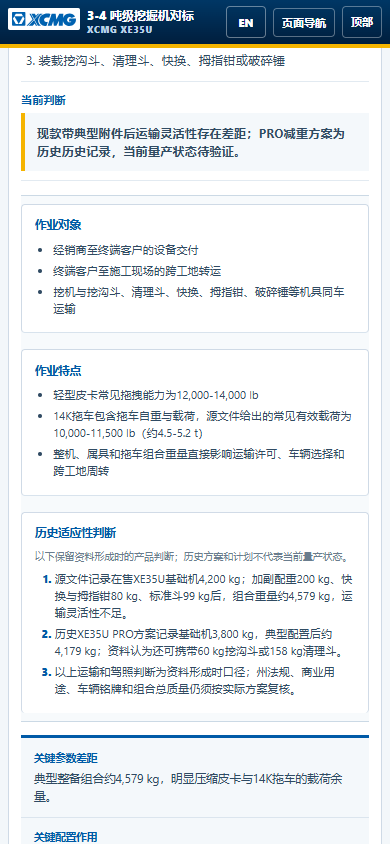
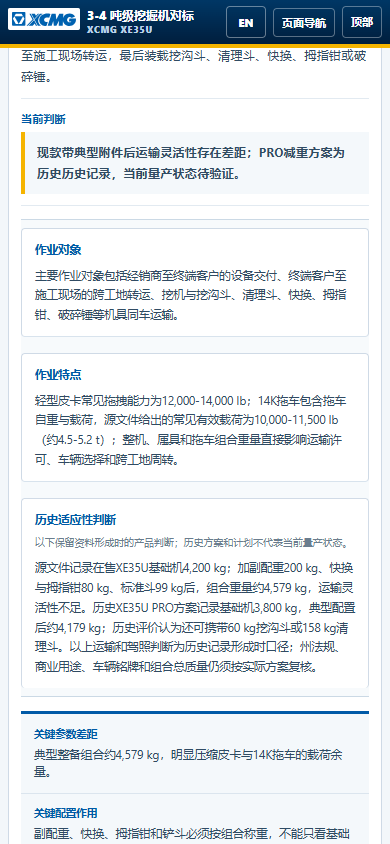
Improve scenario narrative readability

Changed region(s): [[0.0615, 0.4313, 0.9538, 1.0], [0.0308, 0.0616, 0.9538, 0.4005], [0.9231, 0.2464, 0.9538, 0.2773]]

diff --git a/ppt-integration-demo/assets/integrated.js b/ppt-integration-demo/assets/integrated.js
@@ -298,6 +298,47 @@
     return output;
   }
 
+  function trimSentence(value) {
+    return String(value || '').trim().replace(/[。；，、.!?;,:\s]+$/u, '');
+  }
+
+  function statementFromItems(items, separator) {
+    const values = (items || []).map((item) => trimSentence(item)).filter(Boolean);
+    if (!values.length) return '';
+    const joiner = separator || (language === 'en' ? '; ' : '；');
+    return `${values.join(joiner)}${language === 'en' ? '.' : '。'}`;
+  }
+
+  function workflowFromItems(items) {
+    const values = (items || []).map((item) => trimSentence(item)).filter(Boolean);
+    if (!values.length) return '';
+    if (values.length === 1) return `${values[0]}${language === 'en' ? '.' : '。'}`;
+    const first = values[0];
+    const last = values[values.length - 1];
+    const middle = values.slice(1, -1);
+    if (language === 'en') {
+      const middleText = middle.length ? `; then ${middle.join('; ')}` : '';
+      return `First, ${first}${middleText}; finally, ${last}.`;
+    }
+    const middleText = middle.length ? `，随后依次完成${middle.join('、')}` : '';
+    return `作业通常先进行${first}${middleText}，最后${last}。`;
+  }
+
+  function workObjectNarrative(items) {
+    const values = (items || []).map((item) => trimSentence(item)).filter(Boolean);
+    if (!values.length) return '';
+    if (language === 'en') return `The primary work scope covers ${values.map((item) => item.charAt(0).toLowerCase() + item.slice(1)).join(', ')}.`;
+    return `主要作业对象包括${values.join('、')}。`;
+  }
+
+  function historicalNarrative(items) {
+    return (items || []).map((item) => {
+      const value = narrative(item).trim();
+      if (!value) return '';
+      return /[。.!?]$/u.test(value) ? value : `${value}${language === 'en' ? '.' : '。'}`;
+    }).filter(Boolean).join(language === 'en' ? ' ' : '');
+  }
+
   function escapeHtml(value) {
     return String(value == null ? '' : value)
       .replace(/&/g, '&amp;').replace(/</g, '&lt;').replace(/>/g, '&gt;')
@@ -675,16 +716,16 @@
           <div class="scenarioBody">
             <dl class="scenarioFacts">
               <div class="scenarioFact"><dt>${escapeHtml(copy.customer)}</dt><dd>${escapeHtml(text(record.customer))}</dd></div>
-              <div class="scenarioFact"><dt>${escapeHtml(copy.needs)}</dt><dd><ul>${needs.map((item) => `<li>${escapeHtml(item)}</li>`).join('')}</ul></dd></div>
-              <div class="scenarioFact"><dt>${escapeHtml(copy.steps)}</dt><dd><ol>${steps.map((item) => `<li>${escapeHtml(item)}</li>`).join('')}</ol></dd></div>
+              <div class="scenarioFact"><dt>${escapeHtml(copy.needs)}</dt><dd><p class="scenarioNarrative">${escapeHtml(statementFromItems(needs))}</p></dd></div>
+              <div class="scenarioFact"><dt>${escapeHtml(copy.steps)}</dt><dd><p class="scenarioNarrative">${escapeHtml(workflowFromItems(steps))}</p></dd></div>
               <div class="scenarioFact"><dt>${escapeHtml(copy.finding)}</dt><dd class="scenarioFinding">${escapeHtml(narrative(record.conclusion))}</dd></div>
             </dl>
           </div>
         </div>
         <div class="scenarioSourceContext">
-          <section><h4>${escapeHtml(copy.workObjects)}</h4><ul>${workObjects.map((item) => `<li>${escapeHtml(item)}</li>`).join('')}</ul></section>
-          <section><h4>${escapeHtml(copy.operatingCharacteristics)}</h4><ul>${operatingCharacteristics.map((item) => `<li>${escapeHtml(item)}</li>`).join('')}</ul></section>
-          <section class="historicalAssessment"><div><h4>${escapeHtml(copy.historicalAssessment)}</h4><p>${escapeHtml(copy.historicalAssessmentNote)}</p></div><ol>${historicalAssessment.map((item) => `<li>${escapeHtml(item)}</li>`).join('')}</ol></section>
+          <section class="workObjects"><h4>${escapeHtml(copy.workObjects)}</h4><p class="scenarioNarrative" data-item-count="${workObjects.length}">${escapeHtml(workObjectNarrative(workObjects))}</p></section>
+          <section class="operatingCharacteristics"><h4>${escapeHtml(copy.operatingCharacteristics)}</h4><p class="scenarioNarrative" data-item-count="${operatingCharacteristics.length}">${escapeHtml(statementFromItems(operatingCharacteristics))}</p></section>
+          <section class="historicalAssessment"><div><h4>${escapeHtml(copy.historicalAssessment)}</h4><p>${escapeHtml(copy.historicalAssessmentNote)}</p></div><p class="scenarioNarrative historicalNarrative" data-item-count="${historicalAssessment.length}">${escapeHtml(historicalNarrative(historicalAssessment))}</p></section>
         </div>
         <div class="scenarioEngineering">
           <article><span>${escapeHtml(copy.parameterImpact)}</span><p>${escapeHtml(text(engineering?.parameter))}</p></article>

diff --git a/ppt-integration-demo/assets/integrated.css b/ppt-integration-demo/assets/integrated.css
@@ -109,16 +109,15 @@
 .status-covered{background:#e4f2e9;color:var(--ppt-green)}
 .status-mixed{background:#fff3d1;color:var(--ppt-amber)}
 .scenarioFacts{display:grid;grid-template-columns:1fr;margin:0}
-.scenarioFact{padding:.55rem 0;border-bottom:1px solid #e2eaf1}
-.scenarioFact dt{margin-bottom:.3rem;color:var(--ppt-blue);font-size:.7rem;font-weight:900;text-transform:uppercase}
-.scenarioFact dd{margin:0;color:#304b63;font-size:.77rem;line-height:1.5}
-.scenarioFact ul,.scenarioFact ol{margin:.15rem 0 0;padding-left:1.1rem}
-.scenarioFact li{margin:.2rem 0}
+.scenarioFact{padding:.68rem 0;border-bottom:1px solid #e2eaf1}
+.scenarioFact dt{margin-bottom:.3rem;color:var(--ppt-blue);font-size:.7rem;font-weight:900}
+.scenarioFact dd{margin:0;color:#304b63;font-size:.77rem;line-height:1.68}
+.scenarioNarrative{max-width:78ch;margin:0;color:#304b63;line-height:1.7;text-wrap:pretty}
 .scenarioFinding{padding:.65rem .75rem;border-left:4px solid var(--ppt-yellow);background:#f4f8fb;color:var(--ppt-ink);font-weight:700}
 .scenarioSourceContext{display:grid;grid-template-columns:1fr;margin-top:.85rem;border-top:1px solid #cbd9e5;border-bottom:1px solid #cbd9e5;background:#f7fafc}
 .scenarioSourceContext section{min-width:0;padding:.72rem .8rem;border-bottom:1px solid #d8e3ed}.scenarioSourceContext section:last-child{border-bottom:0}
-.scenarioSourceContext h4{margin:0 0 .42rem;color:var(--ppt-blue);font-size:.72rem}.scenarioSourceContext ul,.scenarioSourceContext ol{margin:0;padding-left:1.15rem;color:#304b63;font-size:.7rem;line-height:1.52}.scenarioSourceContext li{margin:.25rem 0}
-.scenarioSourceContext .historicalAssessment{background:#fff}.historicalAssessment>div{margin-bottom:.42rem}.historicalAssessment>div p{margin:0;color:#6a7d8e;font-size:.62rem;line-height:1.45}.historicalAssessment ol{padding-left:1.25rem}.historicalAssessment li::marker{color:var(--ppt-blue);font-weight:900}
+.scenarioSourceContext h4{margin:0 0 .42rem;color:var(--ppt-blue);font-size:.72rem}.scenarioSourceContext .scenarioNarrative{font-size:.72rem;line-height:1.72}
+.scenarioSourceContext .historicalAssessment{background:#fff}.historicalAssessment>div{margin-bottom:.5rem}.historicalAssessment>div p{margin:0;color:#6a7d8e;font-size:.62rem;line-height:1.5}.historicalNarrative{max-width:96ch}
 .scenarioEngineering{display:grid;grid-template-columns:1fr;margin-top:.85rem;border-top:3px solid var(--ppt-blue);background:#f4f8fb}
 .scenarioEngineering article{padding:.72rem .8rem;border-bottom:1px solid #dbe5ee}
 .scenarioEngineering article:last-child{border-bottom:0}
@@ -330,8 +329,7 @@
   [data-scenario-id="scenario-transport"] .scenarioPhotoGrid.photoCount-2{grid-template-columns:minmax(0,1.46fr) minmax(0,1fr);align-items:start}
   [data-scenario-id="scenario-transport"] .scenarioPhotoGrid img{aspect-ratio:auto}
   .scenarioPhotoGrid.photoCount-3,.scenarioPhotoGrid.photoCount-6{grid-template-columns:repeat(3,minmax(0,1fr))}
-  .scenarioFacts{grid-template-columns:1fr 1fr;column-gap:1rem}
-  .scenarioSourceContext{grid-template-columns:minmax(0,.72fr) minmax(0,.9fr) minmax(0,1.55fr)}.scenarioSourceContext section{border-right:1px solid #d8e3ed;border-bottom:0}.scenarioSourceContext section:last-child{border-right:0}
+  .scenarioSourceContext{grid-template-columns:minmax(15rem,.78fr) minmax(0,1.62fr);grid-template-areas:"objects history" "characteristics history"}.scenarioSourceContext .workObjects{grid-area:objects}.scenarioSourceContext .operatingCharacteristics{grid-area:characteristics;border-bottom:0}.scenarioSourceContext .historicalAssessment{grid-area:history;border-left:1px solid #d8e3ed;border-bottom:0}
   .scenarioEngineering{grid-template-columns:repeat(3,minmax(0,1fr))}.scenarioEngineering article{border-right:1px solid #dbe5ee;border-bottom:0}.scenarioEngineering article:last-child{border-right:0}
   .configMatrix{grid-template-columns:1fr}
   .paperInsightGrid{grid-template-columns:repeat(2,minmax(0,1fr))}

diff --git a/ppt-integration-demo/index.html b/ppt-integration-demo/index.html
@@ -8,7 +8,7 @@
   <title>XCMG XE35U 3-4 吨级挖掘机竞品对标看板｜XCMG ARC</title>
   <link rel="icon" href="assets/xcmg-logo.svg" type="image/svg+xml">
   <link rel="stylesheet" href="assets/dashboard.css?v=20260717a">
-  <link rel="stylesheet" href="ppt-integration-demo/assets/integrated.css?v=20260721k">
+  <link rel="stylesheet" href="ppt-integration-demo/assets/integrated.css?v=20260721l">
 </head>
 <body class="pptIntegratedDemo">
 <a class="backTop" href="#top" aria-label="回到页面顶部">回到顶部</a>
@@ -180,7 +180,7 @@
 <script src="assets/dashboard.js"></script>
 <script src="ppt-integration-demo/assets/demo-navigation.js?v=20260721a"></script>
 <script src="ppt-integration-demo/assets/expanded-content.js?v=20260721g"></script>
-<script src="ppt-integration-demo/assets/integrated.js?v=20260721k"></script>
+<script src="ppt-integration-demo/assets/integrated.js?v=20260721l"></script>
 <script src="assets/i18n.js?v=20260717a"></script>
 </body>
 </html>

diff --git a/ppt-integration-demo/excavator-overview.html b/ppt-integration-demo/excavator-overview.html
@@ -8,7 +8,7 @@
   <title>挖掘机整体分析｜XCMG ARC</title>
   <link rel="icon" href="assets/xcmg-logo.svg" type="image/svg+xml">
   <link rel="stylesheet" href="assets/dashboard.css?v=20260717a">
-  <link rel="stylesheet" href="ppt-integration-demo/assets/integrated.css?v=20260721k">
+  <link rel="stylesheet" href="ppt-integration-demo/assets/integrated.css?v=20260721l">
 </head>
 <body class="pptOverviewPage">
 <a class="backTop" href="#top" aria-label="回到页面顶部">回到顶部</a>